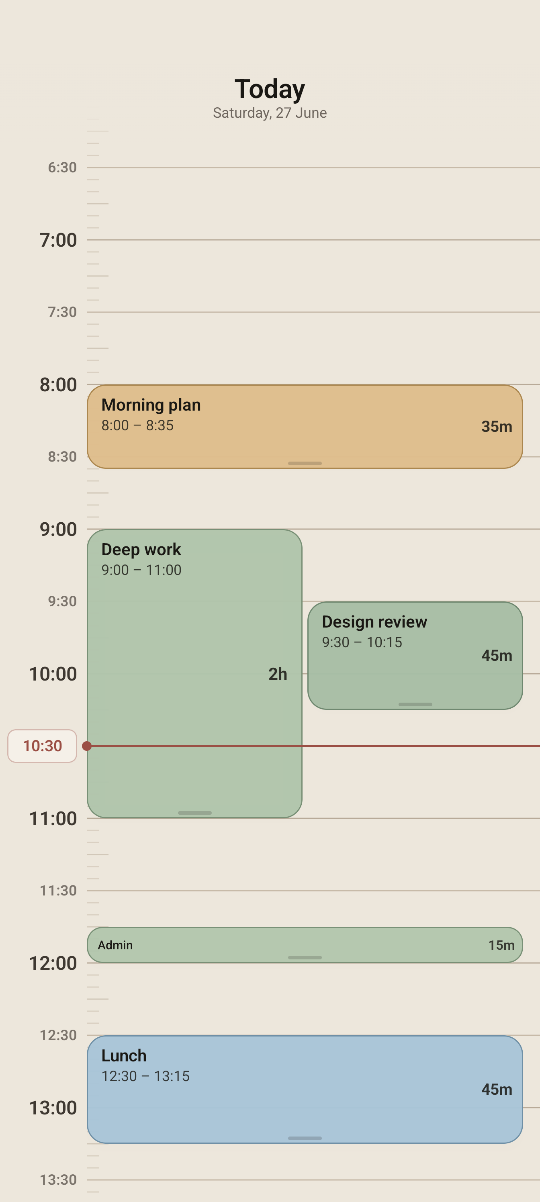
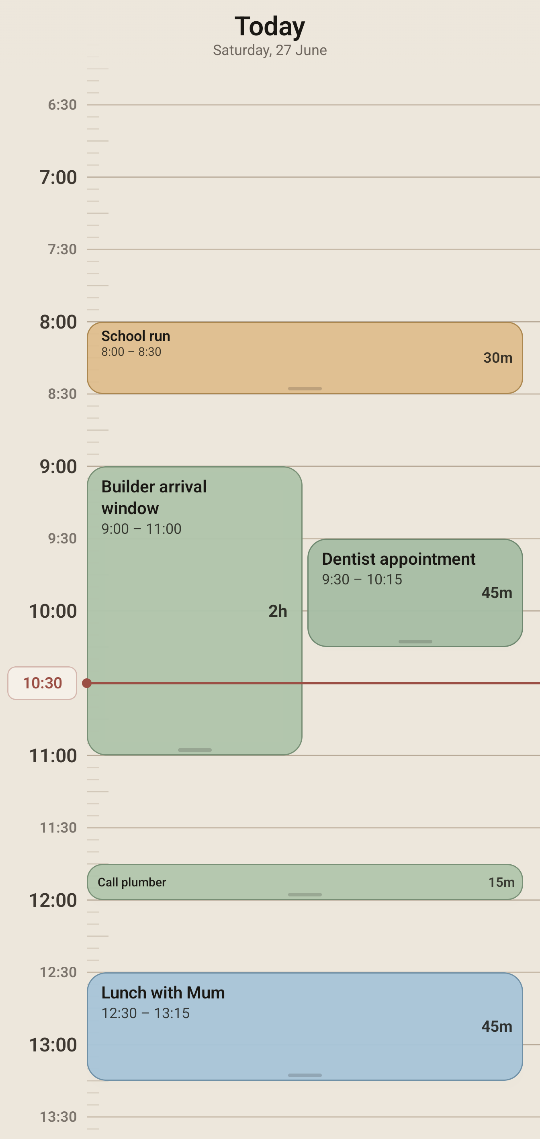
Improve README screenshots

diff --git a/app/src/androidTest/java/com/privateplanner/ui/ReadmeScreenshotTest.kt b/app/src/androidTest/java/com/privateplanner/ui/ReadmeScreenshotTest.kt
@@ -13,6 +13,7 @@ import androidx.compose.ui.test.junit4.v2.createAndroidComposeRule
 import androidx.compose.ui.test.onAllNodesWithText
 import androidx.compose.ui.test.onNodeWithText
 import androidx.compose.ui.test.onRoot
+import androidx.compose.ui.test.performTextInput
 import androidx.compose.ui.unit.Density
 import androidx.room.Room
 import androidx.test.ext.junit.runners.AndroidJUnit4
@@ -50,20 +51,29 @@ class ReadmeScreenshotTest {
         outputDir.deleteRecursively()
         outputDir.mkdirs()
 
+        val today = LocalDate.now()
         setPlannerContent()
-        compose.waitUntilNodeWithText("Deep work")
+        compose.waitUntilNodeWithText("School run")
         captureRoot(outputDir.resolve("daytile-timeline.png"))
 
+        compose.runOnUiThread {
+            viewModel.jumpTo(today.plusDays(1))
+        }
+        compose.waitUntilNodeWithText("Economics lecture")
         compose.runOnUiThread {
             viewModel.openCreate(10 * 60 + 45)
         }
         compose.waitUntilHasTextField()
+        compose.onNode(hasSetTextAction()).performTextInput("Book study room")
         hideKeyboard()
         captureRoot(outputDir.resolve("daytile-create.png"))
 
         compose.runOnUiThread {
-            viewModel.dismissSheet()
-            viewModel.openActions(2L)
+            viewModel.jumpTo(today.plusDays(2))
+        }
+        compose.waitUntilNodeWithText("Client fitting")
+        compose.runOnUiThread {
+            viewModel.openActions(302L)
         }
         compose.onNodeWithText("Delete").assertExists()
         captureRoot(outputDir.resolve("daytile-actions.png"))
@@ -97,15 +107,24 @@ class ReadmeScreenshotTest {
     }
 
     private suspend fun PlannerDatabase.seedReadmeBlocks() {
-        val today = LocalDate.now().toEpochDay()
+        val today = LocalDate.now()
         val blocks = listOf(
-            block(1, today, "Morning plan", 8 * 60, 35),
-            block(2, today, "Deep work", 9 * 60, 120),
-            block(3, today, "Design review", 9 * 60 + 30, 45),
-            block(4, today, "Admin", 11 * 60 + 45, 15),
-            block(5, today, "Lunch", 12 * 60 + 30, 45),
-            block(6, today, "Build release", 14 * 60, 90),
-            block(7, today, "Walk", 15 * 60 + 45, 30)
+            block(101, today, "School run", 8 * 60, 30),
+            block(102, today, "Builder arrival window", 9 * 60, 120),
+            block(103, today, "Dentist appointment", 9 * 60 + 30, 45),
+            block(104, today, "Call plumber", 11 * 60 + 45, 15),
+            block(105, today, "Lunch with Mum", 12 * 60 + 30, 45),
+            block(106, today, "Football practice", 16 * 60, 60),
+            block(201, today.plusDays(1), "Economics lecture", 8 * 60 + 30, 90),
+            block(202, today.plusDays(1), "Seminar prep", 10 * 60 + 15, 30),
+            block(203, today.plusDays(1), "Group presentation", 11 * 60 + 15, 45),
+            block(204, today.plusDays(1), "Library shift", 13 * 60, 120),
+            block(205, today.plusDays(1), "Train home", 16 * 60 + 30, 35),
+            block(301, today.plusDays(2), "Open studio", 8 * 60, 45),
+            block(302, today.plusDays(2), "Client fitting", 9 * 60 + 15, 75),
+            block(303, today.plusDays(2), "Supplier delivery", 10 * 60, 60),
+            block(304, today.plusDays(2), "Post orders", 11 * 60 + 30, 45),
+            block(305, today.plusDays(2), "Staff rota", 12 * 60 + 45, 25)
         )
         blocks.forEach { block ->
             blockDao().insertBlock(block)
@@ -114,14 +133,14 @@ class ReadmeScreenshotTest {
 
     private fun block(
         id: Long,
-        dateEpochDay: Long,
+        date: LocalDate,
         title: String,
         startMinutes: Int,
         durationMinutes: Int
     ): PlannerBlockEntity {
         return PlannerBlockEntity(
             id = id,
-            dateEpochDay = dateEpochDay,
+            dateEpochDay = date.toEpochDay(),
             title = title,
             startMinutes = startMinutes,
             durationMinutes = durationMinutes
@@ -130,13 +149,32 @@ class ReadmeScreenshotTest {
 
     private fun captureRoot(outputFile: File) {
         val source = compose.onRoot().captureToImage().asAndroidBitmap()
+        val topCropPx = screenshotTopCropPx(source)
+        val cropped = Bitmap.createBitmap(
+            source,
+            0,
+            topCropPx,
+            source.width,
+            source.height - topCropPx
+        )
         val targetWidth = 540
-        val targetHeight = (source.height * targetWidth / source.width.toFloat()).roundToInt()
-        val scaled = Bitmap.createScaledBitmap(source, targetWidth, targetHeight, true)
+        val targetHeight = (cropped.height * targetWidth / cropped.width.toFloat()).roundToInt()
+        val scaled = Bitmap.createScaledBitmap(cropped, targetWidth, targetHeight, true)
         outputFile.parentFile?.mkdirs()
         FileOutputStream(outputFile).use { stream ->
             scaled.compress(Bitmap.CompressFormat.PNG, 100, stream)
         }
+    }
+
+    private fun screenshotTopCropPx(source: Bitmap): Int {
+        val resources = compose.activity.resources
+        val statusBarResourceId = resources.getIdentifier("status_bar_height", "dimen", "android")
+        val statusBarHeight = if (statusBarResourceId > 0) {
+            resources.getDimensionPixelSize(statusBarResourceId)
+        } else {
+            0
+        }
+        return statusBarHeight.coerceIn(0, source.height / 8)
     }
 
     private fun screenshotOutputDir(): File {

diff --git a/README.md b/README.md
@@ -5,9 +5,9 @@ Daytile is a private offline Android timeline planner.
 ## Screenshots
 
 <p>
-  <img src="docs/readme/daytile-timeline.png" alt="Daytile timeline with scheduled blocks" width="240">
-  <img src="docs/readme/daytile-create.png" alt="Daytile create task sheet" width="240">
-  <img src="docs/readme/daytile-actions.png" alt="Daytile block actions sheet" width="240">
+  <img src="docs/readme/daytile-timeline.png" alt="Daytile family timeline with appointments and errands" width="240">
+  <img src="docs/readme/daytile-create.png" alt="Daytile student schedule with create task sheet" width="240">
+  <img src="docs/readme/daytile-actions.png" alt="Daytile small business schedule with block actions sheet" width="240">
 </p>
 
 Daytile has no account system, no network permission, no analytics, and stores planner data only in a local Room database. Backup and device-transfer extraction are disabled.